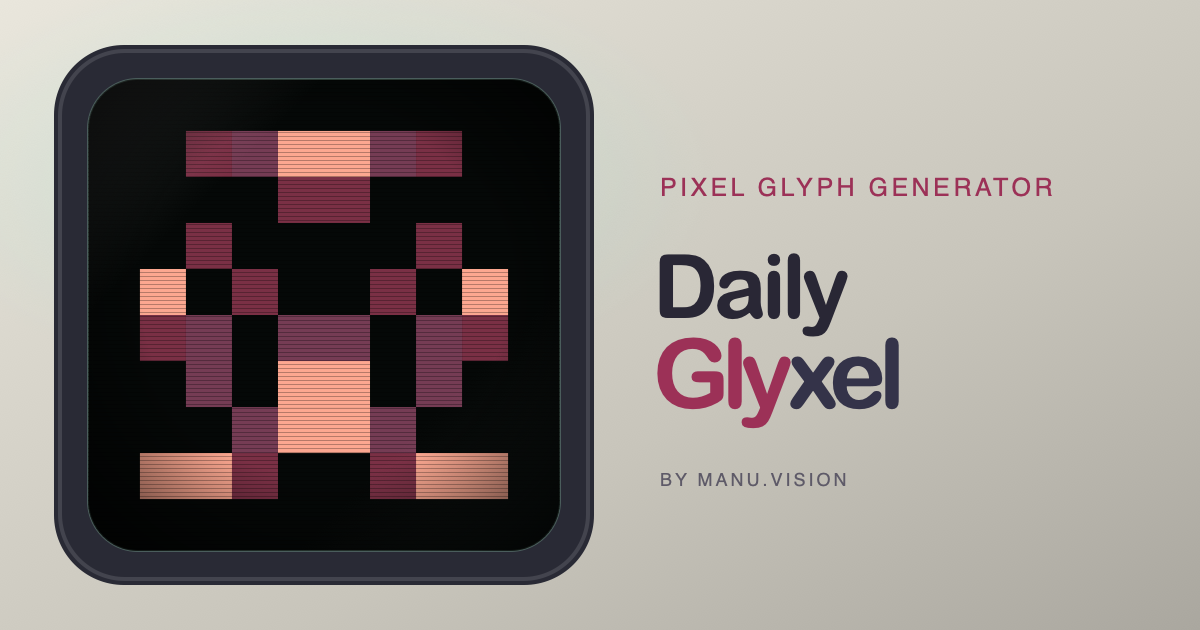
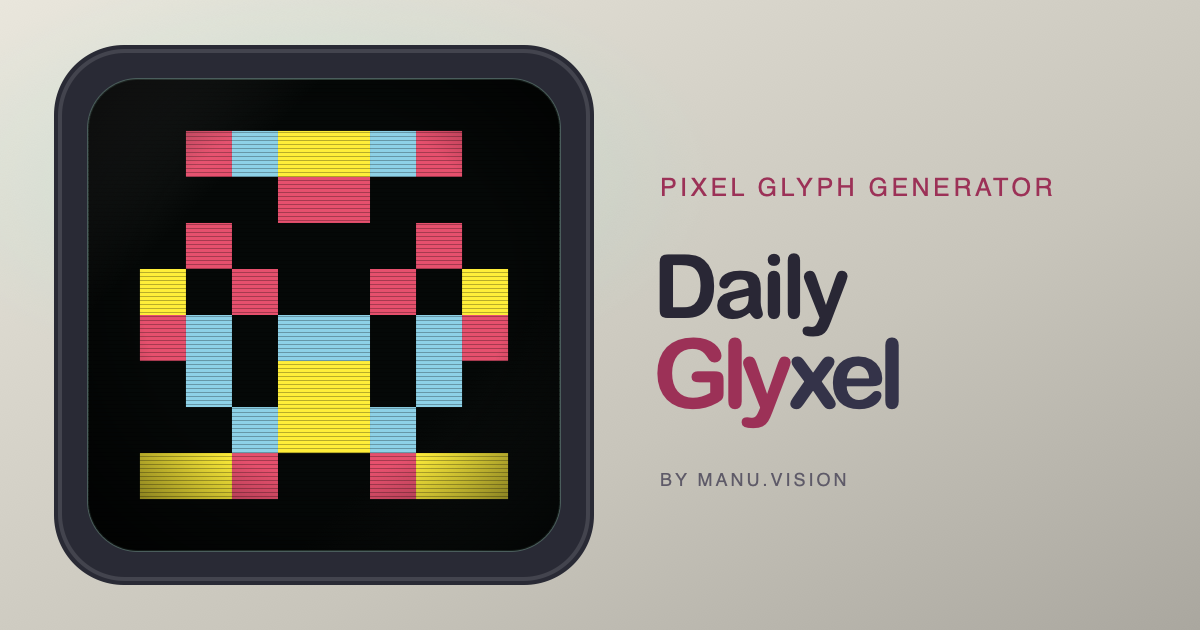
Use Copic marker palette for Glyxel

Changed region(s): [[0.0925, 0.3317, 0.4317, 0.8143], [0.1542, 0.181, 0.4008, 0.3619]]

diff --git a/glyxel/generator.js b/glyxel/generator.js
@@ -16,32 +16,34 @@ export const DEFAULT_SETTINGS = Object.freeze(
 
 export const BACKGROUND_COLOR = '#050807';
 
-export const RESURRECT_64 = Object.freeze([
-  '#2e222f', '#3e3546', '#625565', '#966c6c', '#ab947a',
-  '#694f62', '#7f708a', '#9babb2', '#c7dcd0', '#ffffff',
-  '#6e2727', '#b33831', '#ea4f36', '#f57d4a',
-  '#ae2334', '#e83b3b', '#fb6b1d', '#f79617', '#f9c22b',
-  '#7a3045', '#9e4539', '#cd683d', '#e6904e', '#fbb954',
-  '#4c3e24', '#676633', '#a2a947', '#d5e04b', '#fbff86',
-  '#165a4c', '#239063', '#1ebc73', '#91db69', '#cddf6c',
-  '#313638', '#374e4a', '#547e64', '#92a984', '#b2ba90',
-  '#0b5e65', '#0b8a8f', '#0eaf9b', '#30e1b9', '#8ff8e2',
-  '#323353', '#484a77', '#4d65b4', '#4d9be6', '#8fd3ff',
-  '#45293f', '#6b3e75', '#905ea9', '#a884f3', '#eaaded',
-  '#753c54', '#a24b6f', '#cf657f', '#ed8099',
-  '#831c5d', '#c32454', '#f04f78', '#f68181', '#fca790', '#fdcbb0',
+// Digital color references from Copic's official Color System chart.
+export const COPIC_MARKERS = Object.freeze([
+  Object.freeze({ code: 'B00', name: 'Frost Blue', hex: '#EAF6F9', set: 'Perfect Primaries', tone: 'light' }),
+  Object.freeze({ code: 'B04', name: 'Tahitian Blue', hex: '#8DD1E7', set: 'Perfect Primaries', tone: 'rich' }),
+  Object.freeze({ code: 'R43', name: 'Bougainvillaea', hex: '#F18F96', set: 'Perfect Primaries', tone: 'light' }),
+  Object.freeze({ code: 'R46', name: 'Strong Red', hex: '#E6506D', set: 'Perfect Primaries', tone: 'rich' }),
+  Object.freeze({ code: 'Y13', name: 'Lemon Yellow', hex: '#FCF9B7', set: 'Perfect Primaries', tone: 'light' }),
+  Object.freeze({ code: 'Y19', name: 'Napoli Yellow', hex: '#FFEE39', set: 'Perfect Primaries', tone: 'rich' }),
+  Object.freeze({ code: 'G02', name: 'Spectrum Green', hex: '#DBECD9', set: 'Secondary Tones', tone: 'light' }),
+  Object.freeze({ code: 'G09', name: 'Veronese Green', hex: '#8FC460', set: 'Secondary Tones', tone: 'rich' }),
+  Object.freeze({ code: 'V04', name: 'Lilac', hex: '#EDB9D1', set: 'Secondary Tones', tone: 'light' }),
+  Object.freeze({ code: 'V09', name: 'Violet', hex: '#97599A', set: 'Secondary Tones', tone: 'rich' }),
+  Object.freeze({ code: 'YR61', name: 'Spring Orange', hex: '#FEE2CC', set: 'Secondary Tones', tone: 'light' }),
+  Object.freeze({ code: 'YR68', name: 'Orange', hex: '#F67700', set: 'Secondary Tones', tone: 'rich' }),
 ]);
 
+export const COPIC_COLORS = Object.freeze(COPIC_MARKERS.map(({ hex }) => hex));
+
+const markerByCode = new Map(COPIC_MARKERS.map((marker) => [marker.code, marker]));
+const markerColor = (code) => markerByCode.get(code).hex;
+
 const PALETTE_FAMILIES = Object.freeze([
-  { name: 'Ember', colors: ['#2e222f', '#6e2727', '#ae2334', '#e83b3b', '#ea4f36', '#f57d4a', '#f9c22b', '#fbb954'] },
-  { name: 'Rust', colors: ['#2e222f', '#7a3045', '#9e4539', '#cd683d', '#e6904e', '#fbb954', '#ab947a', '#fdcbb0'] },
-  { name: 'Solar', colors: ['#2e222f', '#4c3e24', '#676633', '#a2a947', '#d5e04b', '#fbff86', '#fbb954', '#ffffff'] },
-  { name: 'Moss', colors: ['#313638', '#374e4a', '#165a4c', '#239063', '#1ebc73', '#91db69', '#cddf6c', '#fbff86'] },
-  { name: 'Aqua', colors: ['#2e222f', '#0b5e65', '#0b8a8f', '#0eaf9b', '#30e1b9', '#8ff8e2', '#c7dcd0', '#ffffff'] },
-  { name: 'Ocean', colors: ['#2e222f', '#323353', '#484a77', '#4d65b4', '#4d9be6', '#8fd3ff', '#8ff8e2', '#ffffff'] },
-  { name: 'Violet', colors: ['#2e222f', '#45293f', '#6b3e75', '#905ea9', '#a884f3', '#eaaded', '#ed8099', '#ffffff'] },
-  { name: 'Coral', colors: ['#2e222f', '#753c54', '#a24b6f', '#cf657f', '#ed8099', '#f68181', '#fca790', '#fdcbb0'] },
-  { name: 'Dusk', colors: ['#2e222f', '#3e3546', '#694f62', '#7f708a', '#9babb2', '#c7dcd0', '#cf657f', '#ed8099'] },
+  { name: 'Blue', light: markerColor('B00'), rich: markerColor('B04') },
+  { name: 'Red', light: markerColor('R43'), rich: markerColor('R46') },
+  { name: 'Yellow', light: markerColor('Y13'), rich: markerColor('Y19') },
+  { name: 'Green', light: markerColor('G02'), rich: markerColor('G09') },
+  { name: 'Violet', light: markerColor('V04'), rich: markerColor('V09') },
+  { name: 'Orange', light: markerColor('YR61'), rich: markerColor('YR68') },
 ]);
 
 function clamp(value, minimum, maximum) {
@@ -118,30 +120,22 @@ function shuffled(random, values) {
 }
 
 function createPalette(random, colorCount, family, companion) {
-  const pool = [...new Set([...family.colors, ...companion.colors])];
-
   if (colorCount === 1) {
-    const brightPool = [...new Set([
-      ...family.colors.slice(3),
-      ...companion.colors.slice(3),
-    ])];
-    return [brightPool[randomInteger(random, 0, brightPool.length)]];
+    return [random() < 0.5 ? family.rich : companion.rich];
   }
 
-  const darkPool = [...new Set([
-    ...family.colors.slice(0, 2),
-    ...companion.colors.slice(0, 2),
-  ])];
-  const lightPool = [...new Set([
-    ...family.colors.slice(-2),
-    ...companion.colors.slice(-2),
-  ])];
-  const selected = [
-    darkPool[randomInteger(random, 0, darkPool.length)],
-    lightPool[randomInteger(random, 0, lightPool.length)],
+  const selected = random() < 0.5
+    ? [family.rich, companion.light]
+    : [companion.rich, family.light];
+  const pool = [
+    family.light,
+    family.rich,
+    companion.light,
+    companion.rich,
+    ...shuffled(random, COPIC_COLORS),
   ];
 
-  for (const color of shuffled(random, pool)) {
+  for (const color of pool) {
     if (selected.length >= colorCount) break;
     if (!selected.includes(color)) selected.push(color);
   }
@@ -246,7 +240,7 @@ export function createArtwork(inputSettings = {}, seed = makeSeed()) {
     settings,
     background: BACKGROUND_COLOR,
     palette: sprites[0]?.palette || [],
-    paletteName: 'Resurrect 64 / Mixed fleet',
+    paletteName: 'Copic Sketch / Perfect Primaries + Secondary Tones',
     sprites,
     layout: { unitWidth, unitHeight, columns, rows, offsetX, offsetY },
     stats: {

diff --git a/index.html b/index.html
@@ -287,9 +287,9 @@
                             <span class="glyxel-crt">
                                 <span class="glyxel-screen">
                                     <svg viewBox="0 0 8 8" shape-rendering="crispEdges" data-seed="0C8B605B">
-                                        <g fill="#7a3045"><rect x="1" y="0" width="1" height="1"/><rect x="6" y="0" width="1" height="1"/><rect x="3" y="1" width="2" height="1"/><rect x="1" y="2" width="1" height="1"/><rect x="6" y="2" width="1" height="1"/><rect x="2" y="3" width="1" height="1"/><rect x="5" y="3" width="1" height="1"/><rect x="0" y="4" width="1" height="1"/><rect x="7" y="4" width="1" height="1"/><rect x="2" y="7" width="1" height="1"/><rect x="5" y="7" width="1" height="1"/></g>
-                                        <g fill="#fca790"><rect x="3" y="0" width="2" height="1"/><rect x="0" y="3" width="1" height="1"/><rect x="7" y="3" width="1" height="1"/><rect x="3" y="5" width="2" height="1"/><rect x="3" y="6" width="2" height="1"/><rect x="0" y="7" width="2" height="1"/><rect x="6" y="7" width="2" height="1"/></g>
-                                        <g fill="#753c54"><rect x="2" y="0" width="1" height="1"/><rect x="5" y="0" width="1" height="1"/><rect x="1" y="4" width="1" height="1"/><rect x="3" y="4" width="2" height="1"/><rect x="6" y="4" width="1" height="1"/><rect x="1" y="5" width="1" height="1"/><rect x="6" y="5" width="1" height="1"/><rect x="2" y="6" width="1" height="1"/><rect x="5" y="6" width="1" height="1"/></g>
+                                        <g fill="#E6506D"><rect x="1" y="0" width="1" height="1"/><rect x="6" y="0" width="1" height="1"/><rect x="3" y="1" width="2" height="1"/><rect x="1" y="2" width="1" height="1"/><rect x="6" y="2" width="1" height="1"/><rect x="2" y="3" width="1" height="1"/><rect x="5" y="3" width="1" height="1"/><rect x="0" y="4" width="1" height="1"/><rect x="7" y="4" width="1" height="1"/><rect x="2" y="7" width="1" height="1"/><rect x="5" y="7" width="1" height="1"/></g>
+                                        <g fill="#FFEE39"><rect x="3" y="0" width="2" height="1"/><rect x="0" y="3" width="1" height="1"/><rect x="7" y="3" width="1" height="1"/><rect x="3" y="5" width="2" height="1"/><rect x="3" y="6" width="2" height="1"/><rect x="0" y="7" width="2" height="1"/><rect x="6" y="7" width="2" height="1"/></g>
+                                        <g fill="#8DD1E7"><rect x="2" y="0" width="1" height="1"/><rect x="5" y="0" width="1" height="1"/><rect x="1" y="4" width="1" height="1"/><rect x="3" y="4" width="2" height="1"/><rect x="6" y="4" width="1" height="1"/><rect x="1" y="5" width="1" height="1"/><rect x="6" y="5" width="1" height="1"/><rect x="2" y="6" width="1" height="1"/><rect x="5" y="6" width="1" height="1"/></g>
                                     </svg>
                                 </span>
                             </span>

diff --git a/glyxel/tests/generator.test.js b/glyxel/tests/generator.test.js
@@ -2,14 +2,30 @@ import test from 'node:test';
 import assert from 'node:assert/strict';
 
 import {
+  COPIC_COLORS,
+  COPIC_MARKERS,
   DEFAULT_SETTINGS,
-  RESURRECT_64,
   createArtwork,
   createSeededRandom,
   makeDailySeed,
   makePngFilename,
   normalizeSettings,
 } from '../generator.js';
+
+const EXPECTED_COPIC_COLORS = Object.freeze({
+  B00: '#EAF6F9',
+  B04: '#8DD1E7',
+  R43: '#F18F96',
+  R46: '#E6506D',
+  Y13: '#FCF9B7',
+  Y19: '#FFEE39',
+  G02: '#DBECD9',
+  G09: '#8FC460',
+  V04: '#EDB9D1',
+  V09: '#97599A',
+  YR61: '#FEE2CC',
+  YR68: '#F67700',
+});
 
 test('uses the requested defaults', () => {
   assert.deepEqual(DEFAULT_SETTINGS, {
@@ -69,23 +85,38 @@ test('the same settings and seed create identical artwork', () => {
   assert.deepEqual(first, second);
 });
 
-test('artwork uses an exact-size curated subset of Resurrect 64', () => {
+test('palette contains only the two requested Copic Sketch sets', () => {
+  assert.deepEqual(
+    Object.fromEntries(COPIC_MARKERS.map(({ code, hex }) => [code, hex])),
+    EXPECTED_COPIC_COLORS,
+  );
+  assert.deepEqual(COPIC_COLORS, Object.values(EXPECTED_COPIC_COLORS));
+  assert.deepEqual(
+    [...new Set(COPIC_MARKERS.map(({ set }) => set))].sort(),
+    ['Perfect Primaries', 'Secondary Tones'],
+  );
+});
+
+test('artwork uses an exact-size subset of the Copic marker palette', () => {
   for (let colors = 1; colors <= 8; colors += 1) {
     const artwork = createArtwork({ ...DEFAULT_SETTINGS, colors }, 800 + colors);
     assert.equal(artwork.palette.length, colors);
-    assert.ok(artwork.palette.every((color) => RESURRECT_64.includes(color)));
-    assert.match(artwork.paletteName, /^Resurrect 64 \/ /);
+    assert.ok(artwork.palette.every((color) => COPIC_COLORS.includes(color)));
+    assert.match(artwork.paletteName, /^Copic Sketch \/ /);
   }
 });
 
-test('every ship receives its own Resurrect 64 color combination', () => {
-  const artwork = createArtwork(DEFAULT_SETTINGS, 0xEB64);
+test('every sprite receives its own Copic color combination', () => {
+  const artwork = createArtwork({
+    ...DEFAULT_SETTINGS,
+    pixelSize: 12,
+  }, 0xEB64);
   const paletteKeys = artwork.sprites.map((sprite) => [...sprite.palette].sort().join('|'));
 
   assert.equal(new Set(paletteKeys).size, artwork.sprites.length);
   for (const sprite of artwork.sprites) {
     assert.equal(sprite.palette.length, DEFAULT_SETTINGS.colors);
-    assert.ok(sprite.palette.every((color) => RESURRECT_64.includes(color)));
+    assert.ok(sprite.palette.every((color) => COPIC_COLORS.includes(color)));
     assert.ok(sprite.cells.every((cell) => sprite.palette.includes(cell.color)));
   }
 });

diff --git a/glyxel/index.html b/glyxel/index.html
@@ -14,7 +14,7 @@
   <meta property="og:site_name" content="Manu.Vision">
   <meta property="og:title" content="Glyxel — Generative Pixel Glyphs">
   <meta property="og:description" content="A daily pixel glyph generator with customizable colors, scale, shape, and seed.">
-  <meta property="og:image" content="https://manu.vision/glyxel/social-preview.png">
+  <meta property="og:image" content="https://manu.vision/glyxel/social-preview.png?v=20260818-1">
   <meta property="og:image:width" content="1200">
   <meta property="og:image:height" content="630">
   <meta property="og:image:type" content="image/png">
@@ -24,14 +24,14 @@
   <meta name="twitter:creator" content="@manuvision">
   <meta name="twitter:title" content="Glyxel — Generative Pixel Glyphs">
   <meta name="twitter:description" content="A daily pixel glyph generator with customizable colors, scale, shape, and seed.">
-  <meta name="twitter:image" content="https://manu.vision/glyxel/social-preview.png">
+  <meta name="twitter:image" content="https://manu.vision/glyxel/social-preview.png?v=20260818-1">
   <meta name="twitter:image:alt" content="Daily Glyxel pixel glyph displayed inside a retro CRT screen">
 
   <title>Glyxel — Generative Pixel Glyphs</title>
   <link rel="icon" type="image/svg+xml" href="../images/mv.svg">
   <link rel="manifest" href="manifest.webmanifest">
   <link rel="stylesheet" href="styles.css?v=20260816-2">
-  <script type="module" src="app.js?v=20260816-3"></script>
+  <script type="module" src="app.js?v=20260818-1"></script>
 </head>
 <body>
   <a class="skip-link" href="#controls">Skip to generator controls</a>
@@ -168,7 +168,7 @@
         <details>
           <summary>About the machine</summary>
           <div>
-            <p>Glyxel is a project by <a href="https://manu.vision">Manuel Sainsily</a>. It uses the Resurrect 64 palette from Kerrie Lake and is inspired by Eric Davidson’s genart article.</p>
+            <p>Glyxel is a project by <a href="https://manu.vision">Manuel Sainsily</a>. Its palette mirrors his Copic Sketch Perfect Primaries and Secondary Tones marker sets and is inspired by Eric Davidson’s genart article.</p>
           </div>
         </details>
       </footer>

diff --git a/glyxel/app.js b/glyxel/app.js
@@ -8,7 +8,7 @@ import {
   makeSeed,
   normalizeSettings,
   renderArtwork,
-} from './generator.js?v=20260816-3';
+} from './generator.js?v=20260818-1';
 
 const CONTROL_IDS = Object.keys(CONTROL_DEFINITIONS);
 const canvas = document.querySelector('#artworkCanvas');
@@ -75,7 +75,7 @@ function renderCurrentArtwork() {
   canvasSaveButton.setAttribute('aria-label', `${description} Save this image as a PNG.`);
   seedValue.textContent = formatSeed(artwork.seed);
 
-  const accentColor = artwork.sprites[0]?.palette.at(-1) || '#8ff8e2';
+  const accentColor = artwork.sprites[0]?.palette.at(-1) || '#8DD1E7';
   document.documentElement.style.setProperty('--screen-accent', accentColor);
   triggerScreenPulse();
 }

diff --git a/glyxel/README.md b/glyxel/README.md
@@ -1,6 +1,6 @@
 # Glyxel
 
-Glyxel is a dependency-free, mobile-first pixel-art generator designed like a slightly worn handheld console. It fills a real-size canvas with horizontally mirrored sprites, gives every ship its own combination from Kerrie Lake's Resurrect 64 palette, and exports the clean artwork as a PNG.
+Glyxel is a dependency-free, mobile-first pixel-art generator designed like a slightly worn handheld console. It fills a real-size canvas with horizontally mirrored sprites, gives every glyph its own combination from the Copic Sketch Perfect Primaries and Secondary Tones marker sets, and exports the clean artwork as a PNG.
 
 ## Run locally
 
@@ -19,7 +19,7 @@ npm test
 
 ## Controls
 
-- **Colors** sets how many Resurrect 64 colors are combined for each ship.
+- **Colors** sets how many of the 12 Copic marker colors are combined for each glyph.
 - **Pixel size** sets the physical size of each logical sprite cell in the exported PNG.
 - **Black ratio** sets the chance that a randomized cell stays empty.
 - **Sprite width / height** set each sprite's logical grid.
@@ -44,6 +44,5 @@ Glyxel is an original interface and implementation inspired by:
 - [Random spaceship sprite generator](https://2draw.me/random_ship_generator/index.en.htm)
 - [f2d/random_ship_generator](https://github.com/f2d/random_ship_generator)
 - [How to Create Generative Art In Less Than 100 Lines Of Code](https://www.freecodecamp.org/news/how-to-create-generative-art-in-less-than-100-lines-of-code-d37f379859f)
-- [Resurrect 64 by Kerrie Lake](https://lospec.com/palette-list/resurrect-64)
 
 See [THIRD_PARTY_LICENSES.md](THIRD_PARTY_LICENSES.md) for the referenced open-source project's license.

diff --git a/glyxel/THIRD_PARTY_LICENSES.md b/glyxel/THIRD_PARTY_LICENSES.md
@@ -14,6 +14,6 @@ The above copyright notice and this permission notice shall be included in all c
 
 THE SOFTWARE IS PROVIDED "AS IS", WITHOUT WARRANTY OF ANY KIND, EXPRESS OR IMPLIED, INCLUDING BUT NOT LIMITED TO THE WARRANTIES OF MERCHANTABILITY, FITNESS FOR A PARTICULAR PURPOSE AND NONINFRINGEMENT. IN NO EVENT SHALL THE AUTHORS OR COPYRIGHT HOLDERS BE LIABLE FOR ANY CLAIM, DAMAGES OR OTHER LIABILITY, WHETHER IN AN ACTION OF CONTRACT, TORT OR OTHERWISE, ARISING FROM, OUT OF OR IN CONNECTION WITH THE SOFTWARE OR THE USE OR OTHER DEALINGS IN THE SOFTWARE.
 
-## Resurrect 64
+## Copic color references
 
-Glyxel uses color values from [Resurrect 64](https://lospec.com/palette-list/resurrect-64), created by Kerrie Lake. The palette page identifies Kerrie Lake as the creator and includes their explicit confirmation that the palette may be used in a commercial game. Glyxel includes attribution in both its interface and project documentation.
+Glyxel's palette mirrors the 12 colors in Manuel Sainsily's Copic Sketch Perfect Primaries and Secondary Tones marker sets. Marker codes, names, and digital color references are based on Copic's published [Color System](https://copicmarkers.com/blogs/educational/copic-color-system). Copic is a registered trademark of Too Corporation.
